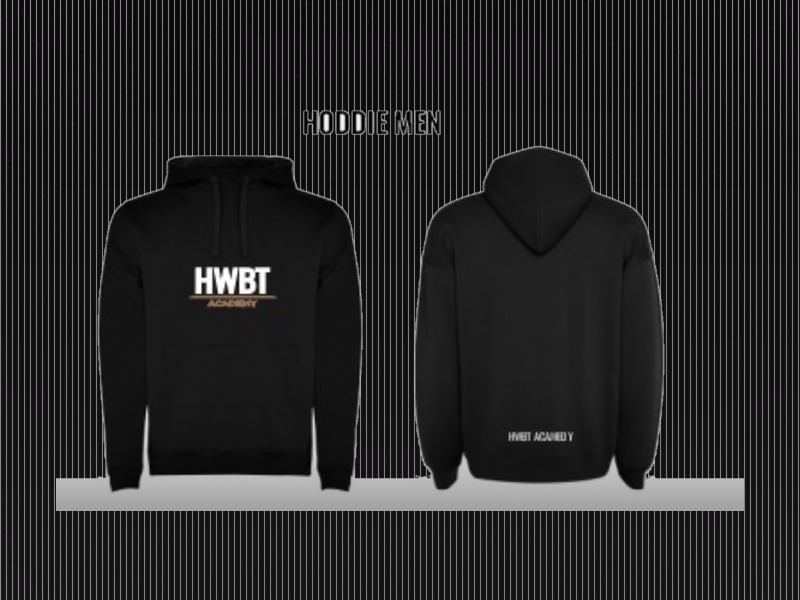
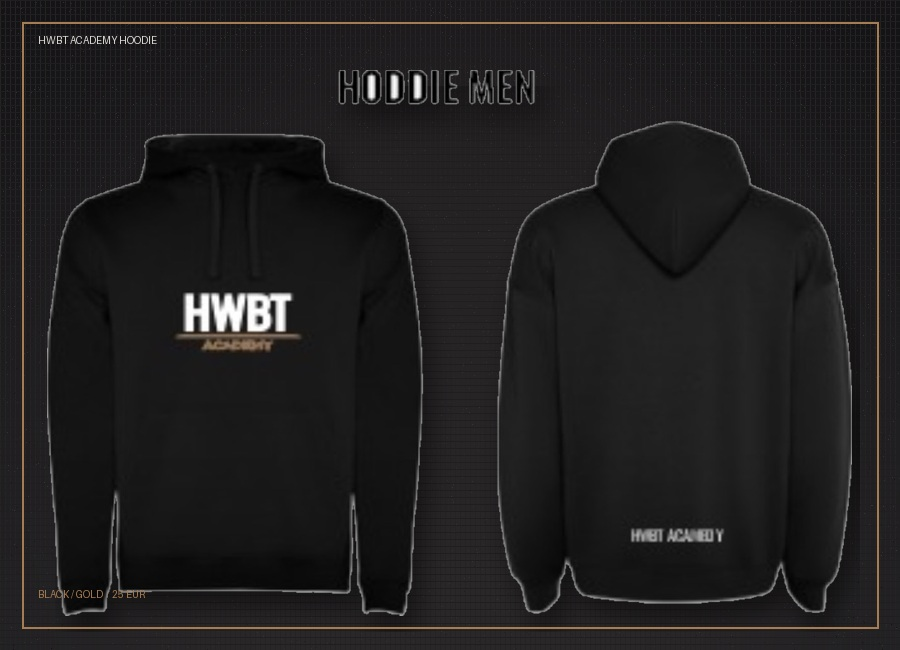
Clean login hints and improve hoodie visual

diff --git a/index.html b/index.html
@@ -4081,7 +4081,7 @@ function hideLogin(){document.getElementById('authOverlay').style.display='none'
 function loginCoach(){const u=document.getElementById('loginUser').value;const p=document.getElementById('loginPass').value;if(norm(u)==='coach'&&(norm(p)==='hwbt'||norm(p)==='coach')){STATE.coachUnlocked=true;STATE.role='coach';STATE.activePlayerId=null;hideLogin();setUI({page:'dashboard',selectedPlayerId:null,selectedSessionId:null});}else showNotif('Accès coach: coach / hwbt');}
 function loginPlayer(){const u=document.getElementById('loginUser').value;const pass=document.getElementById('loginPass').value;const p=STATE.players.find(pl=>playerLoginMatches(pl,u));if(!p){showNotif('Joueur introuvable. Essaie le code joueur, ex: MD300');return;}const expected=p.playerPassword||p.code||'';if(!expected||norm(pass)!==norm(expected)){showNotif('Mot de passe joueur incorrect');return;}STATE.coachUnlocked=false;STATE.role='player';STATE.activePlayerId=p.id;hideLogin();setUI({page:'dashboard',selectedPlayerId:p.id,selectedSessionId:null});}
 function logout(){showLogin();}
-async function initApp(){loadState();await loadRemoteState();document.documentElement.lang=STATE.lang;document.getElementById('mainContent').innerHTML='';document.getElementById('pageTitle').textContent='';document.getElementById('roleTag').textContent='';if(!document.getElementById('authOverlay')){document.body.insertAdjacentHTML('beforeend',`<div id="authOverlay" style="position:fixed;inset:0;background:rgba(0,0,0,.92);z-index:2000;display:flex;align-items:center;justify-content:center;padding:24px"><div class="card" style="width:min(460px,94vw);margin:0"><div style="font-size:34px;font-weight:700;letter-spacing:5px;margin-bottom:4px">HWBT</div><div class="card-title">ACCÈS PLATEFORME</div><div style="font-size:12px;color:var(--gray);font-family:var(--font-body);line-height:1.7;margin-bottom:16px">Un seul fichier HTML. Coach: accès complet. Joueur: entre ton code joueur + mot de passe et tu ne vois que ton carnet.</div><div class="form-group"><label class="form-label">NOM D'UTILISATEUR / CODE JOUEUR</label><input class="form-input" id="loginUser" placeholder="coach ou MD300"></div><div class="form-group"><label class="form-label">MOT DE PASSE</label><input class="form-input" id="loginPass" type="password" placeholder="coach ou mot de passe joueur"></div><div style="display:flex;gap:8px;flex-wrap:wrap"><button class="btn btn-primary" onclick="loginPlayer()">ENTRER JOUEUR</button><button class="btn btn-ghost" onclick="loginCoach()">ENTRER COACH</button><button class="btn btn-ghost" onclick="setLang(STATE.lang==='fr'?'en':'fr')">FR / EN</button></div><div style="font-size:10px;color:var(--gray3);margin-top:14px;font-family:var(--font-body)">Démo joueurs: MD300 / md300, JM110 / jm110, AB400 / ab400. Coach: coach / hwbt.</div></div></div>`);}render();showLogin();}
+async function initApp(){loadState();await loadRemoteState();document.documentElement.lang=STATE.lang;document.getElementById('mainContent').innerHTML='';document.getElementById('pageTitle').textContent='';document.getElementById('roleTag').textContent='';if(!document.getElementById('authOverlay')){document.body.insertAdjacentHTML('beforeend',`<div id="authOverlay" style="position:fixed;inset:0;background:rgba(0,0,0,.92);z-index:2000;display:flex;align-items:center;justify-content:center;padding:24px"><div class="card" style="width:min(460px,94vw);margin:0"><div style="font-size:34px;font-weight:700;letter-spacing:5px;margin-bottom:4px">HWBT</div><div class="card-title">ACCÈS PLATEFORME</div><div style="font-size:12px;color:var(--gray);font-family:var(--font-body);line-height:1.7;margin-bottom:16px">Entre ton identifiant et ton mot de passe personnel. Les accès sont fournis par le coach.</div><div class="form-group"><label class="form-label">NOM D'UTILISATEUR / CODE JOUEUR</label><input class="form-input" id="loginUser" placeholder="Code joueur ou accès coach"></div><div class="form-group"><label class="form-label">MOT DE PASSE</label><input class="form-input" id="loginPass" type="password" placeholder="Mot de passe"></div><div style="display:flex;gap:8px;flex-wrap:wrap"><button class="btn btn-primary" onclick="loginPlayer()">ENTRER JOUEUR</button><button class="btn btn-ghost" onclick="loginCoach()">ENTRER COACH</button><button class="btn btn-ghost" onclick="setLang(STATE.lang==='fr'?'en':'fr')">FR / EN</button></div><div style="font-size:10px;color:var(--bronze);margin-top:14px;font-family:var(--font-body);letter-spacing:.6px">Login à demander au coach.</div></div></div>`);}render();showLogin();}
 window.addEventListener('DOMContentLoaded',initApp);
 </script>
 </body>